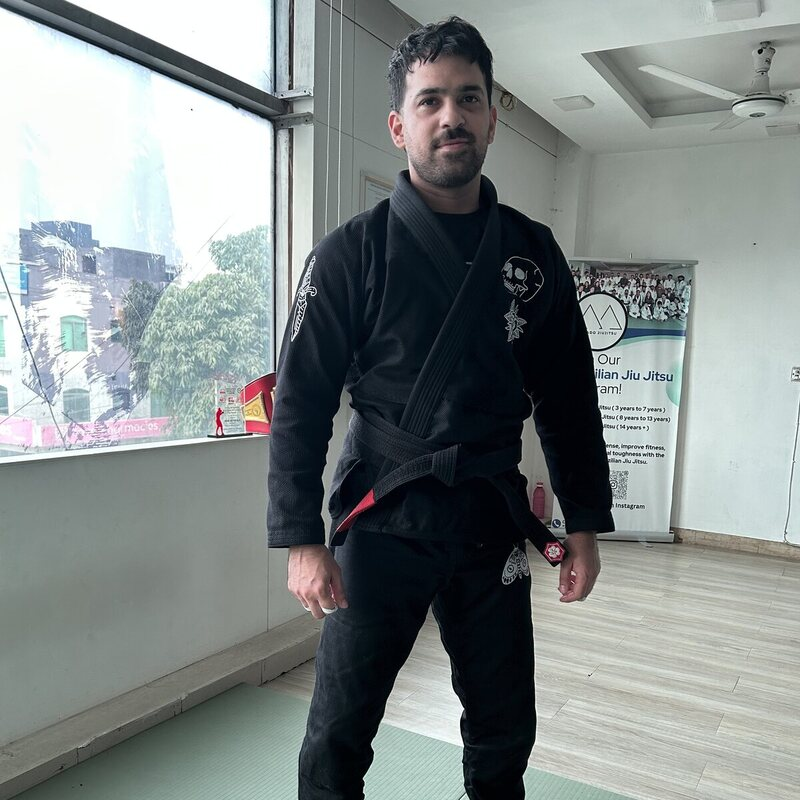
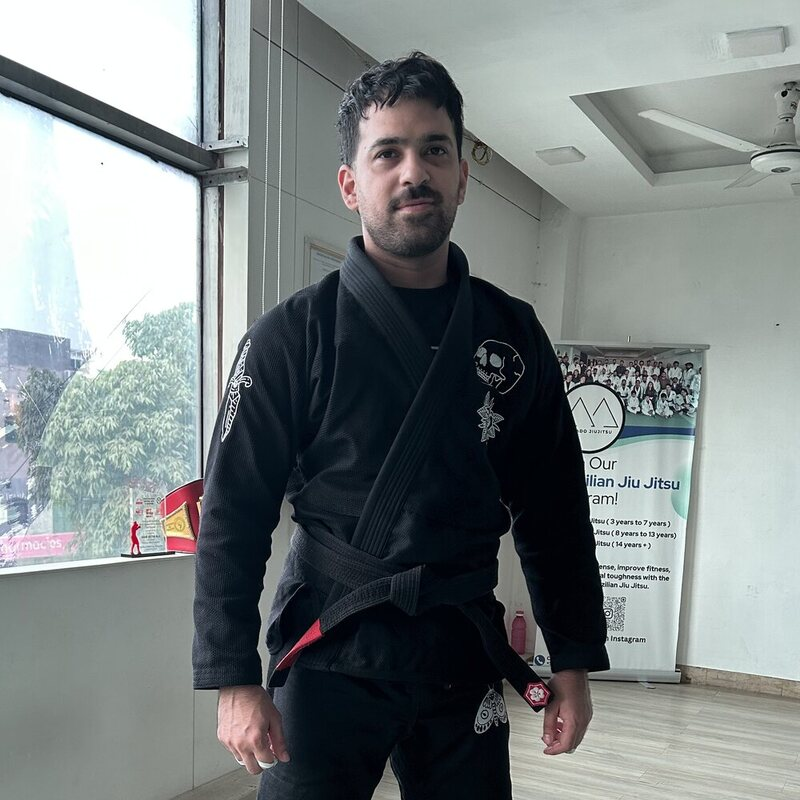
Publish: Stop Shaheryar's head being cut off on phone and tablet coach cards
From mahen2-cmd/mikado-jiu-jitsu@a072613d5b8ed267ed6989f36039bfa3e7ff0982

diff --git a/404.html b/404.html
@@ -18,7 +18,7 @@
   <script>try{var t=localStorage.getItem('theme');if(t==='light'||t==='dark')document.documentElement.dataset.theme=t}catch(e){}</script>
   <link rel="preload" href="fonts/inter-latin.woff2" as="font" type="font/woff2" crossorigin>
   <link rel="preload" href="fonts/anton-latin.woff2" as="font" type="font/woff2" crossorigin>
-  <link rel="stylesheet" href="styles.css?v=39532c7f56">
+  <link rel="stylesheet" href="styles.css?v=27b99ed019">
   <link rel="icon" href="favicon.svg" type="image/svg+xml">
   <link rel="icon" href="favicon-32.png" type="image/png" sizes="32x32">
   <link rel="apple-touch-icon" href="apple-touch-icon.png">

diff --git a/achievements.html b/achievements.html
@@ -17,7 +17,7 @@
   <script>try{var t=localStorage.getItem('theme');if(t==='light'||t==='dark')document.documentElement.dataset.theme=t}catch(e){}</script>
   <link rel="preload" href="fonts/inter-latin.woff2" as="font" type="font/woff2" crossorigin>
   <link rel="preload" href="fonts/anton-latin.woff2" as="font" type="font/woff2" crossorigin>
-  <link rel="stylesheet" href="styles.css?v=39532c7f56">
+  <link rel="stylesheet" href="styles.css?v=27b99ed019">
   <link rel="icon" href="favicon.svg" type="image/svg+xml">
   <link rel="icon" href="favicon-32.png" type="image/png" sizes="32x32">
   <link rel="apple-touch-icon" href="apple-touch-icon.png">

diff --git a/amjad-khan.html b/amjad-khan.html
@@ -17,7 +17,7 @@
   <script>try{var t=localStorage.getItem('theme');if(t==='light'||t==='dark')document.documentElement.dataset.theme=t}catch(e){}</script>
   <link rel="preload" href="fonts/inter-latin.woff2" as="font" type="font/woff2" crossorigin>
   <link rel="preload" href="fonts/anton-latin.woff2" as="font" type="font/woff2" crossorigin>
-  <link rel="stylesheet" href="styles.css?v=39532c7f56">
+  <link rel="stylesheet" href="styles.css?v=27b99ed019">
   <link rel="icon" href="favicon.svg" type="image/svg+xml">
   <link rel="icon" href="favicon-32.png" type="image/png" sizes="32x32">
   <link rel="apple-touch-icon" href="apple-touch-icon.png">

diff --git a/gallery.html b/gallery.html
@@ -17,7 +17,7 @@
   <script>try{var t=localStorage.getItem('theme');if(t==='light'||t==='dark')document.documentElement.dataset.theme=t}catch(e){}</script>
   <link rel="preload" href="fonts/inter-latin.woff2" as="font" type="font/woff2" crossorigin>
   <link rel="preload" href="fonts/anton-latin.woff2" as="font" type="font/woff2" crossorigin>
-  <link rel="stylesheet" href="styles.css?v=39532c7f56">
+  <link rel="stylesheet" href="styles.css?v=27b99ed019">
   <link rel="icon" href="favicon.svg" type="image/svg+xml">
   <link rel="icon" href="favicon-32.png" type="image/png" sizes="32x32">
   <link rel="apple-touch-icon" href="apple-touch-icon.png">

diff --git a/guard-passing-with-naqi-arshed.html b/guard-passing-with-naqi-arshed.html
@@ -17,7 +17,7 @@
   <script>try{var t=localStorage.getItem('theme');if(t==='light'||t==='dark')document.documentElement.dataset.theme=t}catch(e){}</script>
   <link rel="preload" href="fonts/inter-latin.woff2" as="font" type="font/woff2" crossorigin>
   <link rel="preload" href="fonts/anton-latin.woff2" as="font" type="font/woff2" crossorigin>
-  <link rel="stylesheet" href="styles.css?v=39532c7f56">
+  <link rel="stylesheet" href="styles.css?v=27b99ed019">
   <link rel="icon" href="favicon.svg" type="image/svg+xml">
   <link rel="icon" href="favicon-32.png" type="image/png" sizes="32x32">
   <link rel="apple-touch-icon" href="apple-touch-icon.png">

diff --git a/hashim-ali.html b/hashim-ali.html
@@ -17,7 +17,7 @@
   <script>try{var t=localStorage.getItem('theme');if(t==='light'||t==='dark')document.documentElement.dataset.theme=t}catch(e){}</script>
   <link rel="preload" href="fonts/inter-latin.woff2" as="font" type="font/woff2" crossorigin>
   <link rel="preload" href="fonts/anton-latin.woff2" as="font" type="font/woff2" crossorigin>
-  <link rel="stylesheet" href="styles.css?v=39532c7f56">
+  <link rel="stylesheet" href="styles.css?v=27b99ed019">
   <link rel="icon" href="favicon.svg" type="image/svg+xml">
   <link rel="icon" href="favicon-32.png" type="image/png" sizes="32x32">
   <link rel="apple-touch-icon" href="apple-touch-icon.png">

diff --git a/index.html b/index.html
@@ -17,7 +17,7 @@
   <script>try{var t=localStorage.getItem('theme');if(t==='light'||t==='dark')document.documentElement.dataset.theme=t}catch(e){}</script>
   <link rel="preload" href="fonts/inter-latin.woff2" as="font" type="font/woff2" crossorigin>
   <link rel="preload" href="fonts/anton-latin.woff2" as="font" type="font/woff2" crossorigin>
-  <link rel="stylesheet" href="styles.css?v=39532c7f56">
+  <link rel="stylesheet" href="styles.css?v=27b99ed019">
   <link rel="icon" href="favicon.svg" type="image/svg+xml">
   <link rel="icon" href="favicon-32.png" type="image/png" sizes="32x32">
   <link rel="apple-touch-icon" href="apple-touch-icon.png">

diff --git a/jiu-jitsu.html b/jiu-jitsu.html
@@ -17,7 +17,7 @@
   <script>try{var t=localStorage.getItem('theme');if(t==='light'||t==='dark')document.documentElement.dataset.theme=t}catch(e){}</script>
   <link rel="preload" href="fonts/inter-latin.woff2" as="font" type="font/woff2" crossorigin>
   <link rel="preload" href="fonts/anton-latin.woff2" as="font" type="font/woff2" crossorigin>
-  <link rel="stylesheet" href="styles.css?v=39532c7f56">
+  <link rel="stylesheet" href="styles.css?v=27b99ed019">
   <link rel="icon" href="favicon.svg" type="image/svg+xml">
   <link rel="icon" href="favicon-32.png" type="image/png" sizes="32x32">
   <link rel="apple-touch-icon" href="apple-touch-icon.png">

diff --git a/kids.html b/kids.html
@@ -17,7 +17,7 @@
   <script>try{var t=localStorage.getItem('theme');if(t==='light'||t==='dark')document.documentElement.dataset.theme=t}catch(e){}</script>
   <link rel="preload" href="fonts/inter-latin.woff2" as="font" type="font/woff2" crossorigin>
   <link rel="preload" href="fonts/anton-latin.woff2" as="font" type="font/woff2" crossorigin>
-  <link rel="stylesheet" href="styles.css?v=39532c7f56">
+  <link rel="stylesheet" href="styles.css?v=27b99ed019">
   <link rel="icon" href="favicon.svg" type="image/svg+xml">
   <link rel="icon" href="favicon-32.png" type="image/png" sizes="32x32">
   <link rel="apple-touch-icon" href="apple-touch-icon.png">

diff --git a/mma.html b/mma.html
@@ -17,7 +17,7 @@
   <script>try{var t=localStorage.getItem('theme');if(t==='light'||t==='dark')document.documentElement.dataset.theme=t}catch(e){}</script>
   <link rel="preload" href="fonts/inter-latin.woff2" as="font" type="font/woff2" crossorigin>
   <link rel="preload" href="fonts/anton-latin.woff2" as="font" type="font/woff2" crossorigin>
-  <link rel="stylesheet" href="styles.css?v=39532c7f56">
+  <link rel="stylesheet" href="styles.css?v=27b99ed019">
   <link rel="icon" href="favicon.svg" type="image/svg+xml">
   <link rel="icon" href="favicon-32.png" type="image/png" sizes="32x32">
   <link rel="apple-touch-icon" href="apple-touch-icon.png">

diff --git a/no-gi.html b/no-gi.html
@@ -17,7 +17,7 @@
   <script>try{var t=localStorage.getItem('theme');if(t==='light'||t==='dark')document.documentElement.dataset.theme=t}catch(e){}</script>
   <link rel="preload" href="fonts/inter-latin.woff2" as="font" type="font/woff2" crossorigin>
   <link rel="preload" href="fonts/anton-latin.woff2" as="font" type="font/woff2" crossorigin>
-  <link rel="stylesheet" href="styles.css?v=39532c7f56">
+  <link rel="stylesheet" href="styles.css?v=27b99ed019">
   <link rel="icon" href="favicon.svg" type="image/svg+xml">
   <link rel="icon" href="favicon-32.png" type="image/png" sizes="32x32">
   <link rel="apple-touch-icon" href="apple-touch-icon.png">

diff --git a/private-training.html b/private-training.html
@@ -17,7 +17,7 @@
   <script>try{var t=localStorage.getItem('theme');if(t==='light'||t==='dark')document.documentElement.dataset.theme=t}catch(e){}</script>
   <link rel="preload" href="fonts/inter-latin.woff2" as="font" type="font/woff2" crossorigin>
   <link rel="preload" href="fonts/anton-latin.woff2" as="font" type="font/woff2" crossorigin>
-  <link rel="stylesheet" href="styles.css?v=39532c7f56">
+  <link rel="stylesheet" href="styles.css?v=27b99ed019">
   <link rel="icon" href="favicon.svg" type="image/svg+xml">
   <link rel="icon" href="favicon-32.png" type="image/png" sizes="32x32">
   <link rel="apple-touch-icon" href="apple-touch-icon.png">
